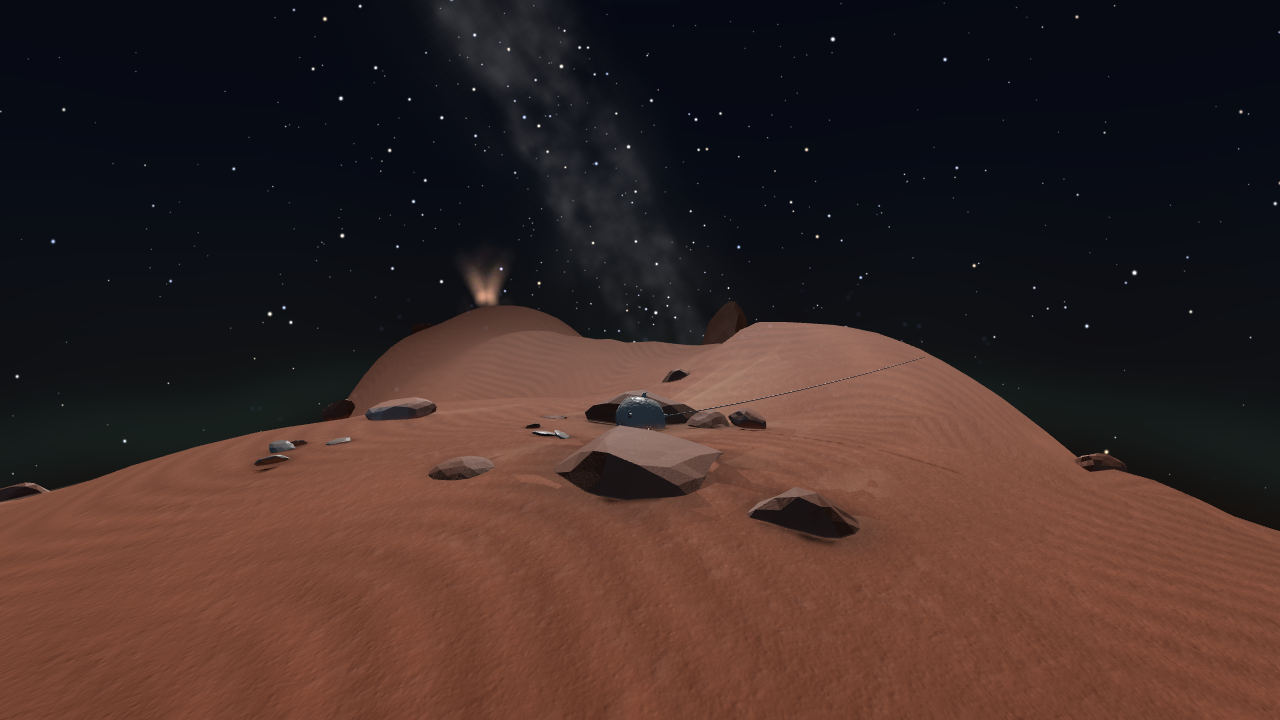
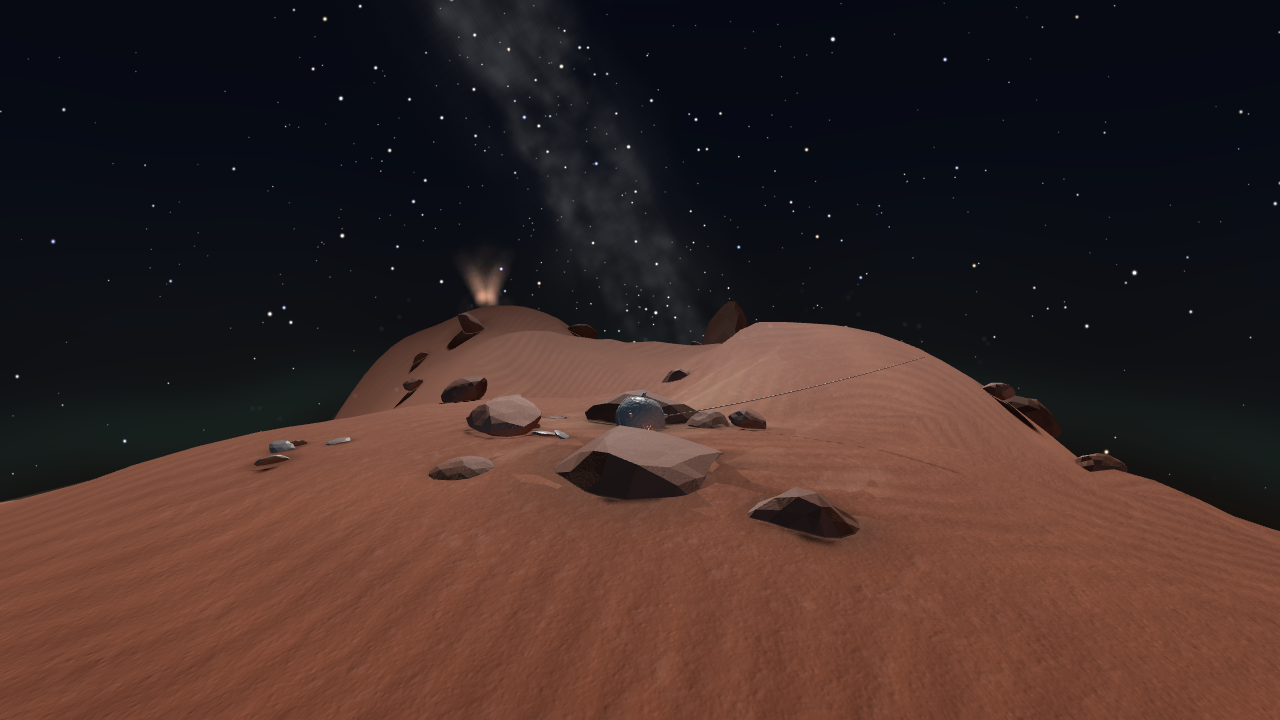
Blockwerk liegt jetzt an Kratern und Graten, nicht gleichverteilt
Der Pruefer hat die Komposition als schwaechstes Kriterium benannt: Masse links
zu rechts 1,00 bis 1,07 in allen zwanzig Bildern. Die Ursache der
Gleichfoermigkeit stand in zwei Zeilen — u und phi gleichverteilt ueber die
Kugel. 240 Brocken auf 7854 m2 sind einer je 33 m2; ein Blick ueber den
8,9-m-Horizont deckt 250 m2 ab, und darin liegen immer dieselben sieben.

Auf einem echten Koerper liegt Blockwerk als Auswurfdecke um einen Einschlag
und als Schutthalde am Fuss eines Grats. Diese Orte gibt es hier schon. Zwei
Drittel der Brocken werden ihnen jetzt zugeordnet, nach Gewicht, ein Drittel
bleibt verstreut — ohne einen einzigen zusaetzlichen rand()-Zug: Die Zuordnung
kommt aus hashNoise, die beiden Lagezuege werden umgedeutet.

Ueber die zwoelf Stationen, Anteil der Felspixel je Bild:

  Streuung   8,43  ->  11,64
  Spanne     24,4  ->  42,7 Prozentpunkte

Es gibt jetzt Stationen mit 42,9 % Blockwerk und Stationen mit 0,24 %.

An der Kennzahl des Pruefers aendert das fast nichts (Masse L:R bleibt
1,00-1,04), und das ist eine Eigenschaft der Kennzahl: Die dunkle Masse ist
hier der Boden, und wer auf einer Kugel von 25 m Halbmesser steht, hat den
Horizont ringsum bei 8,9 m — der Boden fuellt die untere Bildhaelfte immer
symmetrisch. Was diese Zahl bewegen wuerde, sind Formen, die die Horizontlinie
asymmetrisch brechen; das ist eine Entscheidung ueber die Landschaft und steht
offen.

Rundgang schliesst mit 1,30 cm. Regression Zen bitgleich, Dojo 6, Insel
[…]

diff --git a/src/environments.js b/src/environments.js
@@ -5461,11 +5461,45 @@ function makeMarsPlanet(rand) {
   // Farben mit derselben Begründung entsättigt wie der Boden: Ein Stein, der im
   // Blaukanal nichts hat, kann kein Mondlicht zeigen.
   const rockColors = [0x87513e, 0x774835, 0x67402f, 0x915b45];
+  // **Steine liegen nicht gleichverteilt, sie liegen wo etwas passiert ist.**
+  //
+  // Der Prüfer hat die Komposition als schwächstes Kriterium benannt: „Masse
+  // links zu rechts 1,00 bis 1,07 in allen zwanzig Bildern — kein einziges Bild
+  // hat eine Gewichtsachse." Die Ursache stand in der Zeile darunter: `u` und
+  // `phi` gleichverteilt über die Kugel. 240 Brocken auf 7854 m² sind einer je
+  // 33 m²; ein Blick über den 8,9-m-Horizont deckt rund 250 m² ab, und darin
+  // liegen **immer** dieselben sieben. Jede Ansicht ist dieselbe Stichprobe.
+  //
+  // Auf einem echten Körper liegt Blockwerk dort, wo es hergekommen ist: als
+  // Auswurfdecke um einen Einschlag und als Schutthalde am Fuß eines Grats.
+  // Genau diese Orte gibt es hier schon — `craters` und `grate` stehen oben.
+  // Zwei Drittel der Brocken werden ihnen zugeordnet, ein Drittel bleibt
+  // verstreut. Damit hat jede Ansicht entweder ein Feld oder eine leere Fläche,
+  // und das ist der Unterschied zwischen Verteilung und Komposition.
+  //
+  // **Ohne einen einzigen zusätzlichen `rand()`-Zug.** Welcher Brocken zu
+  // welchem Feld gehört, kommt aus `hashNoise`; seine beiden Lagezüge werden
+  // umgedeutet — `u` wird zum flächengleichen Radialanteil in der Kappe, `phi`
+  // bleibt der Winkel. Jeder zusätzliche Zug würde alles Folgende verschieben.
+  const streuFelder = [];
+  for (const c of craters) {
+    // Nur die größeren: Ein 1,15-m-Krater hat keine Auswurfdecke, die man
+    // sieht. Der Kranz sitzt außerhalb des Walls, nicht in der Mulde.
+    if (c.r < 2.0) continue;
+    streuFelder.push({ ort: c.ort, innen: c.r * 1.25, aussen: c.r * 2.6, gewicht: c.r });
+  }
+  for (const g of grate) {
+    // Schutthalde am Grat: die Mitte des Bogens, ein Feld von anderthalb
+    // Fußbreiten.
+    const mitte = g.a.clone().add(g.b).normalize();
+    streuFelder.push({ ort: mitte, innen: g.breite * 0.5, aussen: g.breite * 2.0, gewicht: g.h * 2 });
+  }
+  const gewichtSumme = streuFelder.reduce((s2, f) => s2 + f.gewicht, 0);
+
   const brocken = [];
+  const _feldOrt = new THREE.Vector3();
   for (let i = 0; i < 240; i++) {
-    // **Gleichverteilt auf der Kugel.** Der Kosinus des Polwinkels ist
-    // gleichverteilt, der Winkel selbst nicht — wer den Polwinkel würfelt,
-    // ballt die Brocken an den Polen, und einer der Pole ist der Startpunkt.
+    // Die beiden Lagezüge. Was daraus wird, entscheidet sich unten.
     const u = rand() * 2 - 1;
     const phi = rand() * Math.PI * 2;
     const sr = Math.sqrt(Math.max(0, 1 - u * u));
@@ -5488,7 +5522,27 @@ function makeMarsPlanet(rand) {
     const sy = 0.45 + rand() * 0.4;
     const sz = 1 + rand() * 0.5;
     const rockHex = rockColors[Math.floor(rand() * rockColors.length)];
-    const dir = new THREE.Vector3(sr * Math.cos(phi), u, sr * Math.sin(phi));
+    // Zwei Drittel in ein Feld, ein Drittel verstreut.
+    let dir;
+    if (streuFelder.length && hashNoise(i * 0.77, 5.1, 2.3) < 0.66) {
+      // Feld nach Gewicht ziehen: Ein großer Krater bekommt mehr Blockwerk als
+      // ein kleiner, ein hoher Grat mehr als ein flacher.
+      let z = hashNoise(i * 1.31, 8.8, 4.4) * gewichtSumme;
+      let f = streuFelder[streuFelder.length - 1];
+      for (const k of streuFelder) {
+        z -= k.gewicht;
+        if (z <= 0) {
+          f = k;
+          break;
+        }
+      }
+      // Flächengleich im Kranz zwischen innen und außen: r = sqrt(lerp(i², a²)).
+      const t = (u + 1) * 0.5;
+      const rr = Math.sqrt(f.innen * f.innen + t * (f.aussen * f.aussen - f.innen * f.innen));
+      dir = versetzeAufKugel(f.ort, Math.cos(phi) * rr, Math.sin(phi) * rr, _feldOrt).clone();
+    } else {
+      dir = new THREE.Vector3(sr * Math.cos(phi), u, sr * Math.sin(phi));
+    }
     // Der Startpunkt bleibt frei: Dort steht der Nutzer, und die Karten ordnen
     // sich bei 1,15 bis 1,5 m um ihn an. Alle Ziehungen sind vorher passiert,
     // damit der gesäte Strom davon unberührt bleibt.

diff --git a/prompts/nachthimmel-log.md b/prompts/nachthimmel-log.md
@@ -2898,6 +2898,53 @@ Bauabbruch laufen lassen, und dann meldete es folgerichtig „keine Funde".
 von selbst auf und bricht ab, bevor der Bau überhaupt beginnt. **Eine Prüfung,
 an die man denken muss, ist keine Prüfung.**
 
+### Komposition: die Steine folgen jetzt dem Gelände — und die Kennzahl misst die Kugel
+
+Der Prüfer hat die Komposition als schwächstes Kriterium benannt: *„Masse links
+zu rechts 1,00 bis 1,07 in **allen zwanzig Bildern** — kein einziges hat eine
+Gewichtsachse."*
+
+Die Ursache der Gleichförmigkeit stand in zwei Zeilen: `u` und `phi`
+gleichverteilt über die Kugel. 240 Brocken auf 7854 m² sind einer je 33 m²; ein
+Blick über den 8,9-m-Horizont deckt rund 250 m² ab, und darin liegen **immer**
+dieselben sieben. Jede Ansicht ist dieselbe Stichprobe derselben Verteilung.
+
+Auf einem echten Körper liegt Blockwerk dort, wo es hergekommen ist: als
+Auswurfdecke um einen Einschlag und als Schutthalde am Fuß eines Grats. Genau
+diese Orte gibt es hier schon. Zwei Drittel der Brocken werden ihnen jetzt
+zugeordnet, nach Gewicht (ein großer Krater bekommt mehr als ein kleiner), ein
+Drittel bleibt verstreut — **ohne einen einzigen zusätzlichen `rand()`-Zug**:
+Welcher Brocken zu welchem Feld gehört, kommt aus `hashNoise`, und seine beiden
+Lagezüge werden umgedeutet (`u` wird zum flächengleichen Radialanteil im Kranz,
+`phi` bleibt der Winkel).
+
+#### Was das bringt, und was nicht
+
+Über die **zwölf Stationen des Rundgangs**, Anteil der Felspixel je Bild:
+
+| | vorher | jetzt |
+| --- | --- | --- |
+| Streuung | 8,43 | **11,64** |
+| Spanne | 24,4 | **42,7** Prozentpunkte |
+
+Es gibt jetzt Stationen mit 42,9 % Blockwerk und Stationen mit 0,24 %. Das ist
+der Unterschied zwischen Verteilung und Komposition, und in `d-orbit` sieht man
+ihn direkt: Gruppen und kahle Flächen statt gleichmäßigem Streusel.
+
+**An der Kennzahl des Prüfers ändert es fast nichts** — Masse links zu rechts
+bleibt bei 1,00 bis 1,04. Das ist kein Versäumnis, sondern eine Eigenschaft der
+Kennzahl: In einer Nachtszene trägt die **dunkle Masse** die Komposition, und
+die dunkle Masse ist hier der Boden. Wer auf einer Kugel von 25 m Halbmesser
+steht, hat den Horizont ringsum bei 8,9 m; der Boden füllt die untere Bildhälfte
+**immer** symmetrisch, und 240 Brocken von 14 bis 56 cm bewegen daran nichts.
+
+Was diese Zahl bewegen würde, sind Formen, die die Horizontlinie asymmetrisch
+brechen — also mehr oder größere Landmarken, gesetzt mit Blick auf den Rundgang.
+Das ist eine Entscheidung über die Landschaft, keine über die Steinverteilung,
+und sie steht offen. Der Kantenanteil im unteren Bilddrittel, die andere Hälfte
+seines Befunds, hat sich dort bewegt, wo Blockwerk dazukam: `c-krater` von
+0,96 % auf 1,39 %.
+
 ### Die Lehren dieser Runde
 
 * **Eine API-Zahl, deren Bedeutung man zu kennen glaubt, gehört nachgezählt.**
